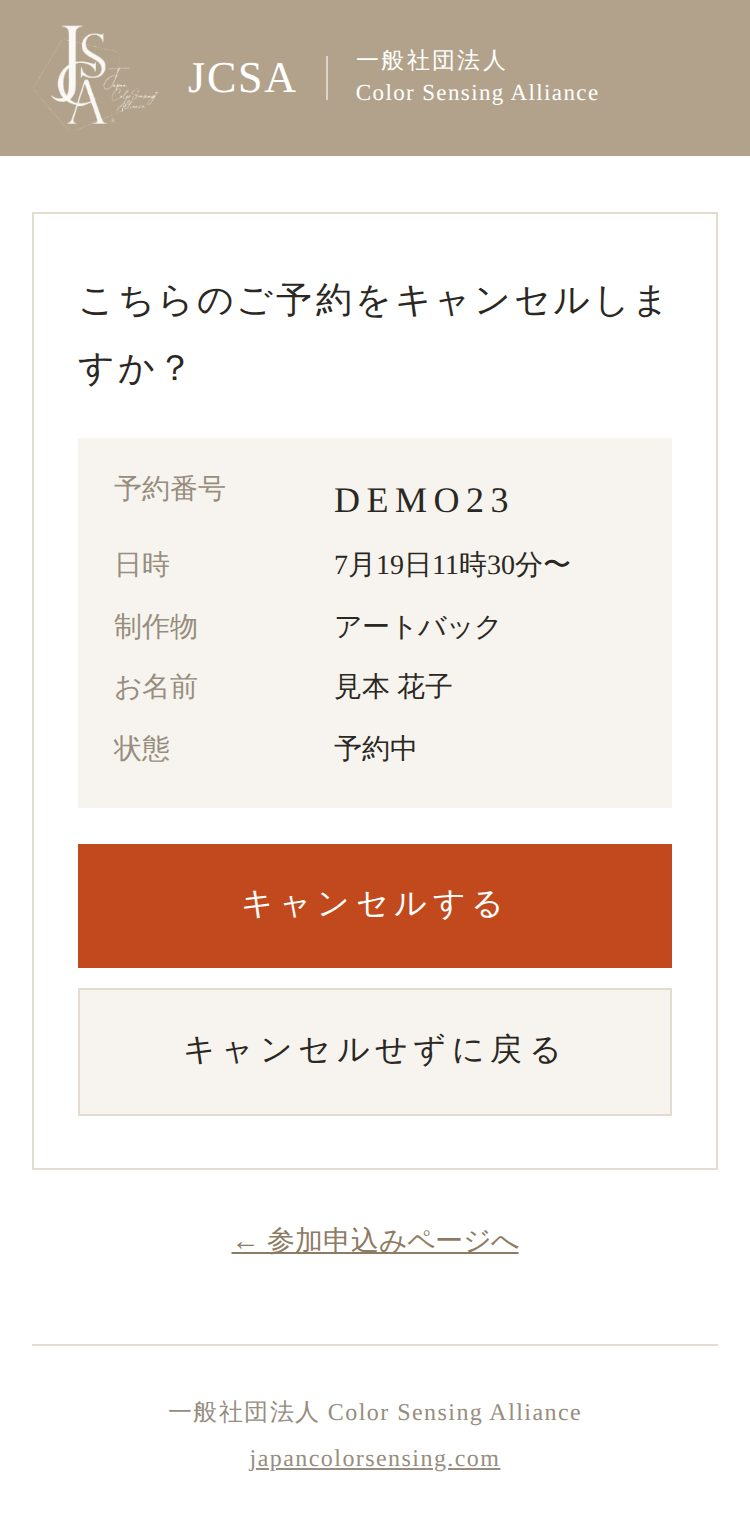
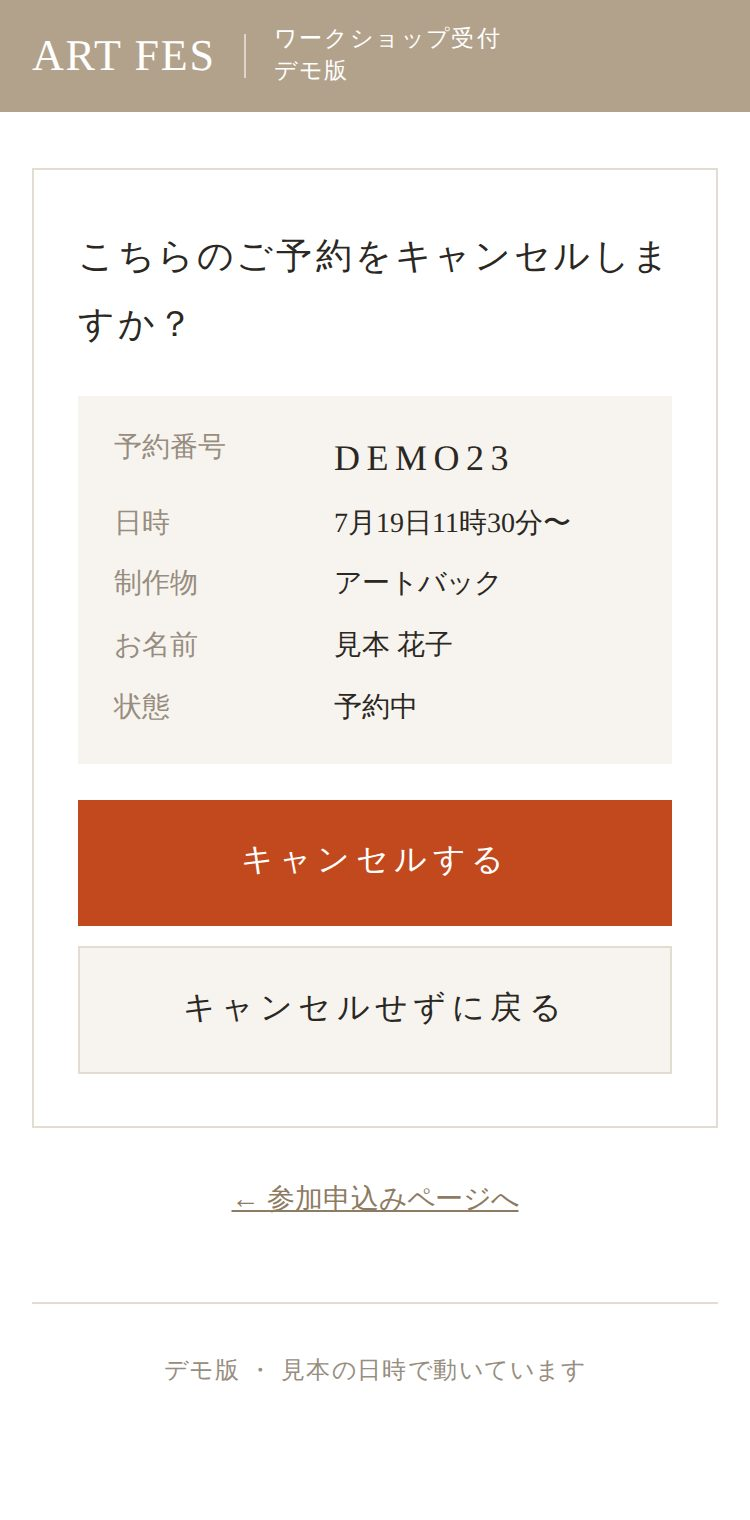
紹介ページ・デモ版・トップのカードから依頼元の名前とロゴを外す
本物の申込みページ（/workshop/）は参加者向けなので、そのまま。

Claude-Session: https://claude.ai/code/session_01QNu85m6rHfMfMEpaEJqQnB

diff --git a/yoyaku/index.html b/yoyaku/index.html
@@ -15,7 +15,7 @@
 <link rel="icon" href="/favicon.ico" sizes="48x48">
 <link rel="icon" href="/assets/icon-192.png" type="image/png" sizes="192x192">
 <link rel="apple-touch-icon" href="/apple-touch-icon.png">
-<meta name="description" content="アートフェスのワークショップを、Googleフォームの代わりに受け付けるページ。日時ごとの残り席が見えて満席なら選べず、申し込んだ人がメールのリンクから自分でキャンセルできます。一般社団法人 Color Sensing Alliance に頼まれて作りました。">
+<meta name="description" content="アートフェスのワークショップを、Googleフォームの代わりに受け付けるページ。日時ごとの残り席が見えて満席なら選べず、申し込んだ人がメールのリンクから自分でキャンセルできます。知り合いのアート講座の団体に頼まれて作りました。">
 <link rel="stylesheet" href="https://fonts.googleapis.com/css2?family=Shippori+Mincho:wght@500;600;700&family=Zen+Kaku+Gothic+New:wght@400;500;700&display=swap">
 <style>
   :root {
@@ -119,7 +119,7 @@
 
   <h2>頼まれたこと<small>REQUEST</small></h2>
   <div class="lead-copy">
-    <p>一般社団法人 Color Sensing Alliance（JCSA）のアートフェスでは、アルコールインクのワークショップの申込みをGoogleフォームで受けていました。日時と作りたいもの（アートバック・アートタンブラー）を選んでもらう形です。</p>
+    <p>知り合いのアート講座の団体が開くアートフェスでは、アルコールインクのワークショップの申込みをGoogleフォームで受けていました。日時と作りたいもの（アートバック・アートタンブラー）を選んでもらう形です。</p>
     <p>ただ、フォームでは<b>どの回があと何席か</b>が申し込む人に見えず、<b>キャンセルしたい人</b>は事務局に連絡するしかありません。「同じ項目のまま、参加者が自分でキャンセルできるようにしたい」。そんな相談から作りました。</p>
   </div>
 
@@ -138,7 +138,7 @@
       <figcaption>キャンセル<small>メールのリンクから、自分で取り消せる</small></figcaption>
     </figure>
   </div>
-  <p class="ba-note">※ 画面はデモ用の見本データです。日時もお名前も、実際の申込みではありません。</p>
+  <p class="ba-note">※ 画面はデモ用の見本データです。日時もお名前も、実際の申込みではありません。本物のページには、団体のロゴと名前が入っています。</p>
 
   <div class="try">
     <p><b>実際に触ってみられます。</b>デモ版は見本の日時で動いていて、申し込んでも本物の予約にはならず、メールも届きません。</p>

diff --git a/workshop/config.js b/workshop/config.js
@@ -12,6 +12,13 @@ if (window.WORKSHOP_DEMO) {
       var h = a.getAttribute('href');
       if (/^(\.\/|cancel\.html)/.test(h) && h.indexOf('demo') < 0) a.setAttribute('href', h + (h.indexOf('?') < 0 ? '?' : '&') + 'demo');
     });
+    // デモ版では依頼元の名前とロゴを出さない（紹介ページから誰でも開けるため）
+    var bar = document.querySelector('.brandbar .in');
+    if (bar) bar.innerHTML = '<span class="mark">ART FES</span><span class="org">ワークショップ受付<br>デモ版</span>';
+    var t = document.getElementById('title');
+    if (t) t.innerHTML = 'アートフェス<br>ワークショップ参加申込み';
+    var f = document.querySelector('footer');
+    if (f) f.textContent = 'デモ版 ・ 見本の日時で動いています';
   });
 }
 
@@ -51,7 +58,7 @@ window.workshopApi = {
 var workshopDemo = {
   config: {
     ok: true,
-    title: '第2回JCSAアートフェス ワークショップ',
+    title: 'アートフェス ワークショップ',
     products: ['アートバック', 'アートタンブラー'],
     ages: ['大人', '中学生', '小学6年', '小学5年', '小学4年', '小学3年', '小学2年', '小学1年', '年長', '年中', '年少', 'その他'],
     sources: ['Instagram', 'チラシ・ポスター', 'ホームページ', '知人の紹介', 'その他'],

diff --git a/index.html b/index.html
@@ -530,11 +530,11 @@
       </a>
 
       <a class="card" href="/yoyaku/">
-        <img class="thumb" src="/assets/workshop.jpg" alt="ワークショップ参加申込みの画面。JCSAのロゴの下に、日時ごとの残り席数が並ぶ">
+        <img class="thumb" src="/assets/workshop.jpg" alt="ワークショップ参加申込みの画面。日時ごとの残り席数が並ぶ">
         <span>
           <p class="eyebrow">11 ・ WORKSHOP</p>
           <h2>ワークショップの申込み受付<span class="arrow">→</span></h2>
-          <p>アートフェスのワークショップを、Googleフォームの代わりに受け付けるページ。日時ごとに残りの席が見えて、満席になると選べなくなります。申し込んだ人が、メールのリンクから自分でキャンセルもできます。一般社団法人 Color Sensing Alliance に頼まれて作りました。</p>
+          <p>アートフェスのワークショップを、Googleフォームの代わりに受け付けるページ。日時ごとに残りの席が見えて、満席になると選べなくなります。申し込んだ人が、メールのリンクから自分でキャンセルもできます。知り合いのアート講座の団体に頼まれて作りました。</p>
         </span>
       </a>
 

diff --git a/workshop/index.html b/workshop/index.html
@@ -119,7 +119,7 @@
   <footer>一般社団法人 Color Sensing Alliance<br><a href="https://www.japancolorsensing.com/">japancolorsensing.com</a></footer>
 </div>
 
-<script src="config.js?v=6"></script>
+<script src="config.js?v=7"></script>
 <script>
 (function () {
   var $ = function (id) { return document.getElementById(id); };

diff --git a/workshop/cancel.html b/workshop/cancel.html
@@ -63,7 +63,7 @@
   <footer>一般社団法人 Color Sensing Alliance<br><a href="https://www.japancolorsensing.com/">japancolorsensing.com</a></footer>
 </div>
 
-<script src="config.js?v=6"></script>
+<script src="config.js?v=7"></script>
 <script>
 (function () {
   var $ = function (id) { return document.getElementById(id); };
